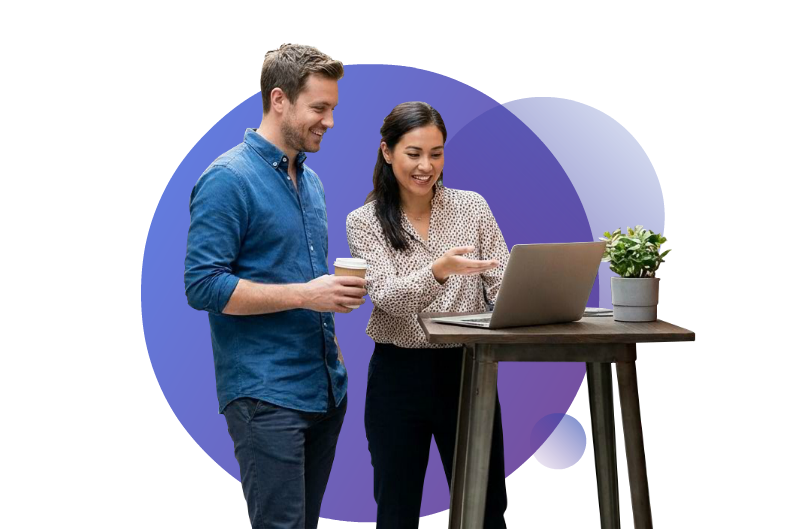
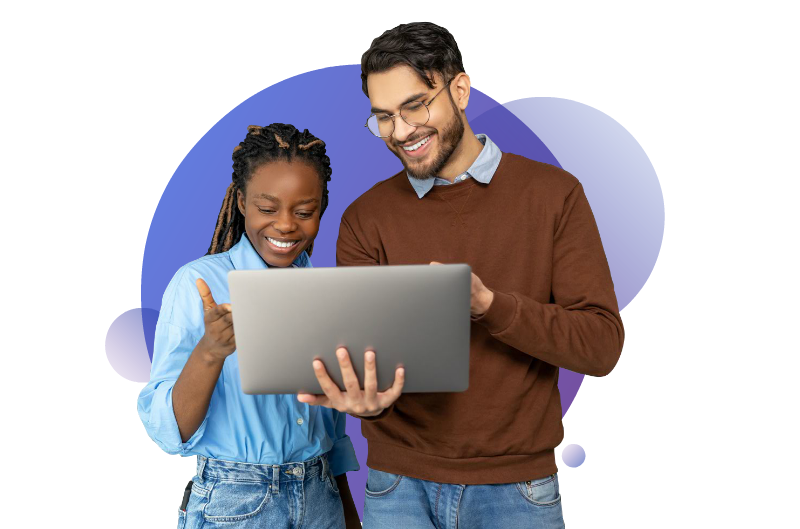
updated images

diff --git a/packages/main/src/app/pages/front-pages/homepage-details/homepage-details.component.scss b/packages/main/src/app/pages/front-pages/homepage-details/homepage-details.component.scss
@@ -774,24 +774,20 @@ section {
 
 .hero-image-circle {
   position: relative;
-  width: 500px;
-  height: 500px;
-  border-radius: 50%;
+  width: 100%;
+  max-width: 600px;
   background: transparent;
   display: flex;
   align-items: center;
   justify-content: center;
-  overflow: hidden !important;
+  overflow: visible;
   box-shadow: none;
-  isolation: isolate;
 }
 
 .hero-image {
   width: 100%;
-  height: 100%;
-  object-fit: cover;
-  object-position: center;
-  border-radius: 50%;
+  height: auto;
+  object-fit: contain;
   display: block;
 }
 
@@ -821,9 +817,7 @@ section {
   }
 
   .hero-image-circle {
-    width: 400px;
-    height: 400px;
-    overflow: hidden !important;
+    max-width: 450px;
   }
 }
 
@@ -860,9 +854,8 @@ section {
   }
 
   .hero-image-circle {
-    width: 320px;
-    height: 320px;
-    overflow: hidden !important;
+    max-width: 350px;
+    margin: 0 auto;
   }
 
   .hero-typographic-badge {
@@ -883,9 +876,8 @@ section {
   }
 
   .hero-image-circle {
-    width: 280px;
-    height: 280px;
-    overflow: hidden !important;
+    max-width: 300px;
+    margin: 0 auto;
   }
 }
 /* Hero Section End */
